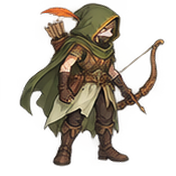
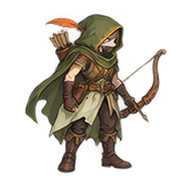
fix: align authored sprites and contain combat HUD on v0.3

diff --git a/docs/VISUAL_DIRECTION_v0_2.md b/docs/VISUAL_DIRECTION_v0_2.md
@@ -25,3 +25,7 @@ Importação e parser Godot 4.6.1 sem erros. As 139 verificações de campanha, 
 `tests/capture_visuals.gd` produz exclusivamente capturas reais do framebuffer Godot: menu, hub, heróis, mapa, cinco regiões, maga e arqueira. O workflow publica essas imagens para revisão; imagens de produção nunca são apresentadas como capturas do jogo.
 
 O APK em `builds/` continua sendo a v0.1.0. A v0.2 é uma atualização do projeto-fonte. Não houve medição de FPS, instalação ou teste de toque físico no aparelho Android.
+
+## Revisão sobre v0.3
+
+Capturas reais do Godot identificaram retratos que excediam o painel, barras com altura mínima incorreta e recortes de sprites com partes de linhas vizinhas. O importador agora usa limites por coluna, preserva a proporção com escala comum por personagem e alinha os pés. O HUD aplica o tamanho após configurar a expansão e atualiza o contador de poções. Barras de inimigos ficam restritas ao combate, sem aparecer nos NPCs da vila. A revisão preserva o diário, a recuperação do refúgio e os efeitos da v0.3.
